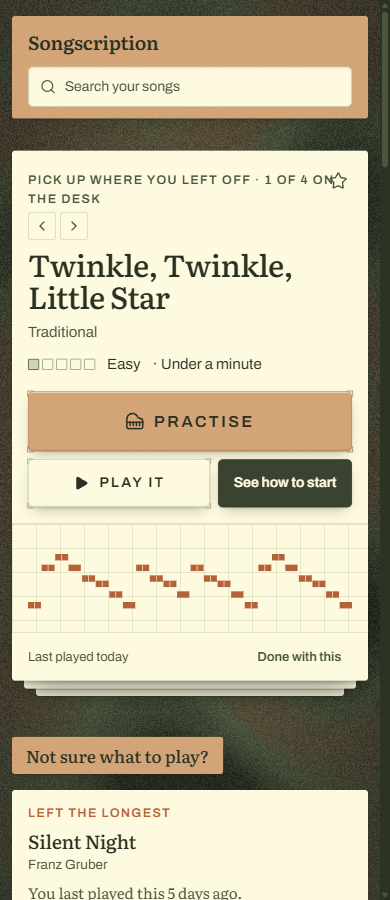
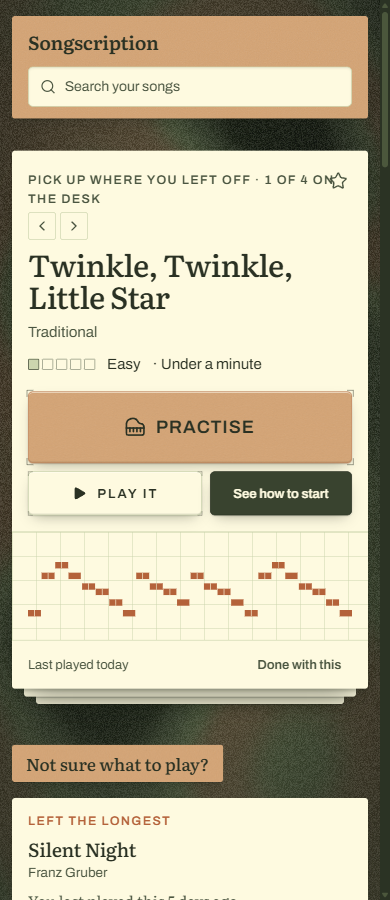
Practise stands over the two that support it
Strung out in a line, the three actions on the desk card were still reading as a
row of siblings — the hierarchy was carried by colour alone and you had to work
it out. Stacked, it is the first thing the eye gets: Practise at 72px across the
full width of the column, Play it and See how to start at 44 beneath it.

The column is given a width rather than taking Practise's own, because sized to
its text the two underneath had 141 and 109 pixels to share and looked pinched.

RevealButton gets a compact height for this, since its 48 was hardcoded in three
places, and PractiseButton a hero size above the large one the song sheet keeps.

Changed region(s): [[0.0308, 0.4356, 0.9846, 1.0], [0.4923, 0.1244, 0.8308, 0.1867]]

diff --git a/src/components/Library.tsx b/src/components/Library.tsx
@@ -424,29 +424,36 @@ export function Library({ initial, configured }: { initial: Piece[]; configured:
                           that follow it both sit at 48, so the row reads as one
                           primary and two seconds rather than four loose objects.
                           The bookmark left entirely — see the card corner. */}
-                      <div className="flex w-full flex-wrap items-center gap-2 md:w-auto md:flex-nowrap md:gap-3">
+                      {/* Stacked rather than strung out in a line: the act the
+                          catalogue exists for sits above the two that support
+                          it, at nearly twice their height, so the hierarchy is
+                          the first thing the eye gets rather than something it
+                          has to work out from colour. */}
+                      <div className="flex w-full flex-col items-stretch gap-2 md:w-[21rem]">
                         <PractiseButton
                           title={current.title}
                           onPractise={() => practise(current)}
                           busy={practisingId === current.id}
                           done={loggedId === current.id}
-                          size="large"
-                          className="basis-full md:basis-auto"
+                          size="hero"
+                          className="w-full"
                         />
-                        <PlayButton
-                          id={current.id}
-                          fileUrl={fileUrl(current)}
-                          title={current.title}
-                          size="large"
-                          className="min-w-0 flex-1 md:flex-none"
-                        />
-                        <RevealButton
-                          reveal="Open the page"
-                          onClick={() => setOpenId(current.id)}
-                          className="min-w-0 flex-1 md:flex-none"
-                        >
-                          See how to start
-                        </RevealButton>
+                        <div className="flex items-center gap-2">
+                          <PlayButton
+                            id={current.id}
+                            fileUrl={fileUrl(current)}
+                            title={current.title}
+                            className="min-w-0 flex-1"
+                          />
+                          <RevealButton
+                            reveal="Open the page"
+                            compact
+                            onClick={() => setOpenId(current.id)}
+                            className="min-w-0 flex-1"
+                          >
+                            See how to start
+                          </RevealButton>
+                        </div>
                       </div>
                     </div>
 

diff --git a/src/components/ui/button-6.tsx b/src/components/ui/button-6.tsx
@@ -18,17 +18,21 @@ import { cn } from "@/lib/utils";
 export function RevealButton({
   children,
   reveal,
+  compact = false,
   className,
   ...props
 }: {
   children: React.ReactNode;
   reveal: React.ReactNode;
+  /** Shorter, for where this is the third thing on a card rather than the second. */
+  compact?: boolean;
 } & React.ButtonHTMLAttributes<HTMLButtonElement>) {
+  const h = compact ? "h-11" : "h-12";
   return (
     <button
       className={cn(
-        "group relative inline-flex h-12 items-center justify-center overflow-hidden",
-        "rounded-[5px] border border-board-deep bg-board font-label text-[14px] font-semibold",
+        `group relative inline-flex ${h} items-center justify-center overflow-hidden`,
+        `rounded-[5px] border border-board-deep bg-board font-label ${compact ? "text-[13px]" : "text-[14px]"} font-semibold`,
         "shadow-lift transition-[box-shadow,transform] duration-150 active:translate-y-px",
         "focus-visible:outline focus-visible:outline-2 focus-visible:outline-offset-2",
         "focus-visible:outline-kraft-deep",
@@ -36,10 +40,10 @@ export function RevealButton({
       )}
       {...props}
     >
-      <span className="inline-flex h-12 translate-y-0 items-center justify-center whitespace-nowrap px-5 text-paper transition-transform duration-500 group-hover:-translate-y-[150%] md:px-6">
+      <span className={`inline-flex ${h} translate-y-0 items-center justify-center whitespace-nowrap ${compact ? "px-4" : "px-5 md:px-6"} text-paper transition-transform duration-500 group-hover:-translate-y-[150%]`}>
         {children}
       </span>
-      <span className="absolute inline-flex h-12 w-full translate-y-full items-center justify-center whitespace-nowrap px-5 text-graphite transition-transform duration-500 group-hover:translate-y-0 md:px-6">
+      <span className={`absolute inline-flex ${h} w-full translate-y-full items-center justify-center whitespace-nowrap ${compact ? "px-4" : "px-5 md:px-6"} text-graphite transition-transform duration-500 group-hover:translate-y-0`}>
         <span className="absolute h-full w-full translate-y-full skew-y-12 scale-y-0 bg-kraft transition-transform duration-500 group-hover:translate-y-0 group-hover:scale-150" />
         <span className="relative z-10 whitespace-nowrap">{reveal}</span>
       </span>

diff --git a/src/components/kit.tsx b/src/components/kit.tsx
@@ -232,19 +232,21 @@ export function PractiseButton({
   onPractise: () => void | Promise<void>;
   busy?: boolean;
   done?: boolean;
-  size?: "small" | "large";
+  /** `hero` is the desk card, where this is the largest thing on the page. */
+  size?: "small" | "large" | "hero";
   compact?: boolean;
   className?: string;
 }) {
-  const large = size === "large";
+  const hero = size === "hero";
+  const large = hero || size === "large";
 
   return (
     <FrameButton
       type="button"
       variant="clay"
-      size={large ? 17 : 13}
-      offset={large ? 7 : 5}
-      className={`${large ? "h-[60px] px-7 text-[16px]" : "h-11 text-[13px]"} ${
+      size={hero ? 19 : large ? 17 : 13}
+      offset={hero ? 8 : large ? 7 : 5}
+      className={`${hero ? "h-[72px] px-8 text-[18px] tracking-[0.06em]" : large ? "h-[60px] px-7 text-[16px]" : "h-11 text-[13px]"} ${
         large ? "" : compact ? "px-3 sm:px-4" : "px-4"
       } gap-2.5 ${className}`}
       aria-label={done ? `Practice logged for ${title}` : `Practise ${title}`}
@@ -257,11 +259,11 @@ export function PractiseButton({
       }}
     >
       {busy ? (
-        <Loader2 className={large ? "h-[19px] w-[19px] animate-spin" : "h-4 w-4 animate-spin"} />
+        <Loader2 className={large ? "h-[21px] w-[21px] animate-spin" : "h-4 w-4 animate-spin"} />
       ) : done ? (
-        <Check className={large ? "h-[19px] w-[19px]" : "h-4 w-4"} strokeWidth={2.25} />
+        <Check className={large ? "h-[21px] w-[21px]" : "h-4 w-4"} strokeWidth={2.25} />
       ) : (
-        <Piano className={large ? "h-[19px] w-[19px]" : "h-4 w-4"} strokeWidth={1.9} />
+        <Piano className={large ? "h-[21px] w-[21px]" : "h-4 w-4"} strokeWidth={1.9} />
       )}
       <span className={compact ? "sr-only sm:not-sr-only" : undefined}>
         {done ? "Logged" : "Practise"}
